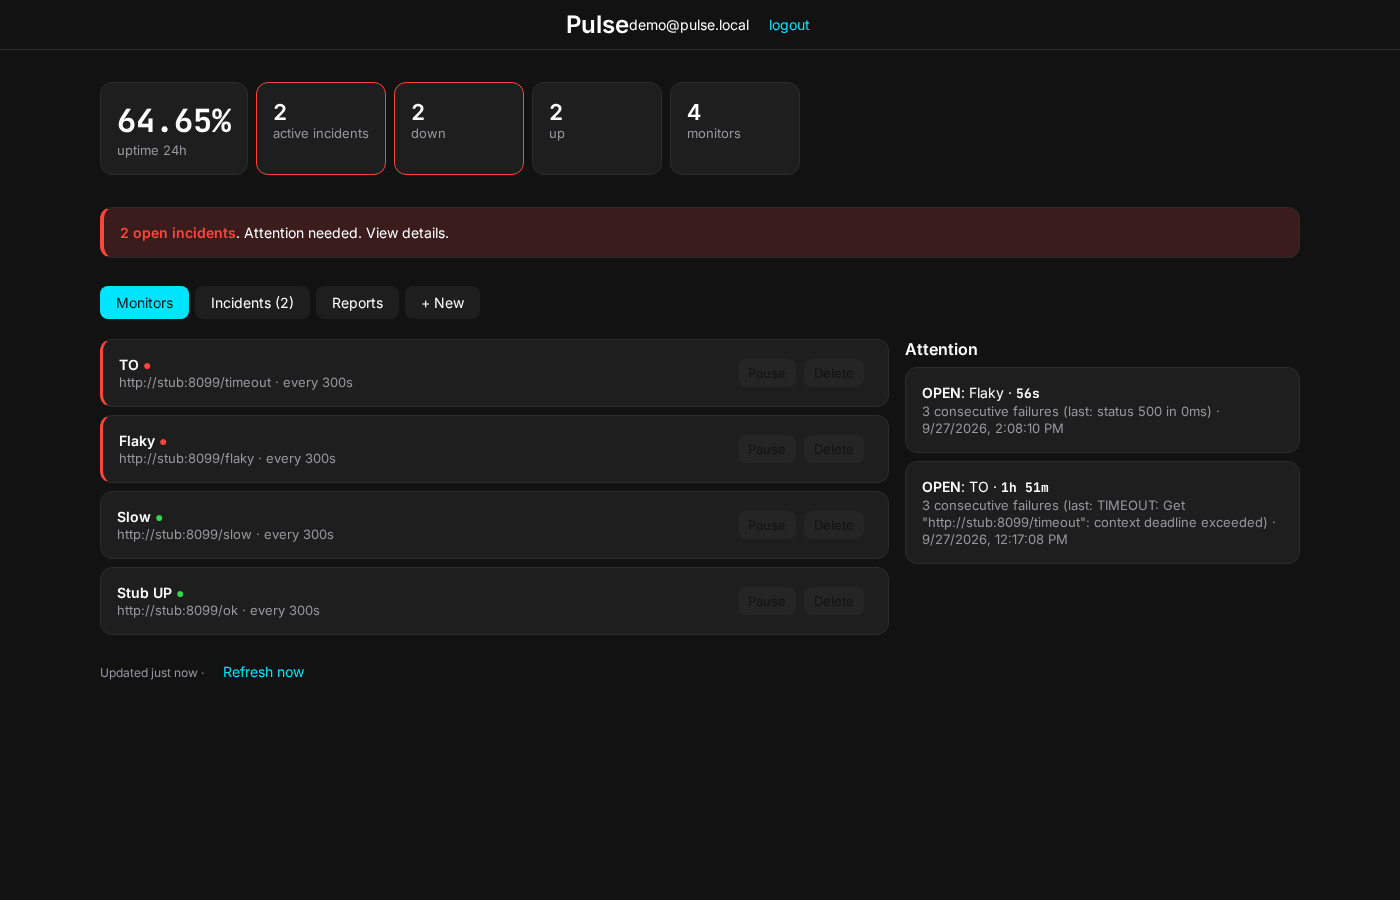
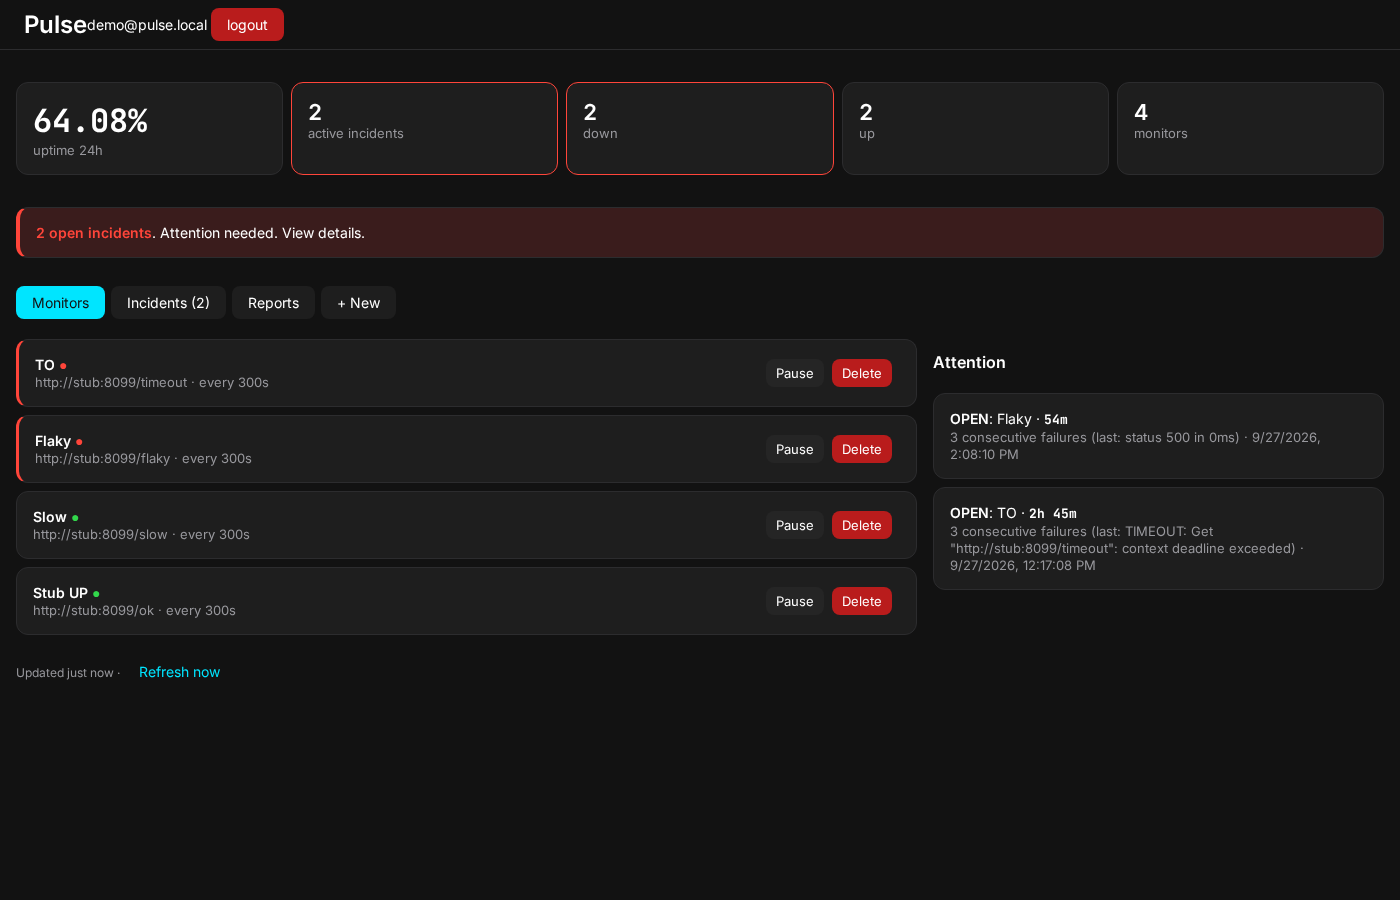
feat(ui): edge header, equal stats, aligned attention, danger buttons, red logout

diff --git a/src/styles/index.css b/src/styles/index.css
@@ -67,11 +67,21 @@ button.link {
   background: none;
   color: var(--focus-ring);
 }
-button.danger {
-  background: var(--surface-2);
+button.danger,
+.row button.danger {
+  background: var(--danger-solid);
+  color: #ffffff;
 }
-button.danger:hover {
-  background: var(--danger-bg);
+button.danger:hover,
+.row button.danger:hover {
+  background: var(--danger-solid-hover);
+}
+button.logout {
+  background: var(--danger-solid);
+  color: #ffffff;
+}
+button.logout:hover {
+  background: var(--danger-solid-hover);
 }
 nav button {
   background: var(--surface);
@@ -95,7 +105,8 @@ nav button.active {
   padding: 16px;
   display: flex;
   flex-direction: column;
-  min-width: 96px;
+  flex: 1;
+  min-width: 140px;
 }
 .stat b {
   font-size: 22px;
@@ -140,6 +151,7 @@ td {
   padding: 6px 10px;
   font-size: 13px;
   background: var(--surface-2);
+  color: #ffffff;
 }
 .dot-up {
   color: var(--ok);
@@ -185,9 +197,8 @@ header {
   border-bottom: 1px solid var(--border);
 }
 .topbar-inner {
-  max-width: 1200px;
-  margin: 0 auto;
-  padding: 8px 16px;
+  margin: 0;
+  padding: 8px 24px;
   display: flex;
   justify-content: space-between;
   align-items: center;
@@ -227,7 +238,7 @@ tbody tr:hover {
   font-family: var(--font-mono);
 }
 .wrap-wide {
-  max-width: 1200px;
+  max-width: 1400px;
 }
 .dash-grid {
   display: grid;
@@ -236,7 +247,8 @@ tbody tr:hover {
   align-items: start;
 }
 .dash-grid h3 {
-  margin-top: 8px;
+  margin: 12px 0;
+  line-height: 38px;
 }
 .table-scroll {
   overflow-x: auto;

diff --git a/src/app/DashboardScreen.jsx b/src/app/DashboardScreen.jsx
@@ -37,7 +37,7 @@ export function DashboardScreen({ user, monitorUC, onLogout, onSelect }) {
           <h1>Pulse</h1>
           <div>
             {user.email}{' '}
-            <button className="link" onClick={onLogout}>
+            <button className="logout" onClick={onLogout}>
               logout
             </button>
           </div>

diff --git a/src/styles/tokens.css b/src/styles/tokens.css
@@ -18,6 +18,8 @@
   --bad: #ff453a;
   --idle: #98989d;
   --danger-bg: #3a1c1c;
+  --danger-solid: #b91c1c;
+  --danger-solid-hover: #991b1b;
   --radius-s: 8px;
   --radius-m: 12px;
   --radius-l: 16px;
